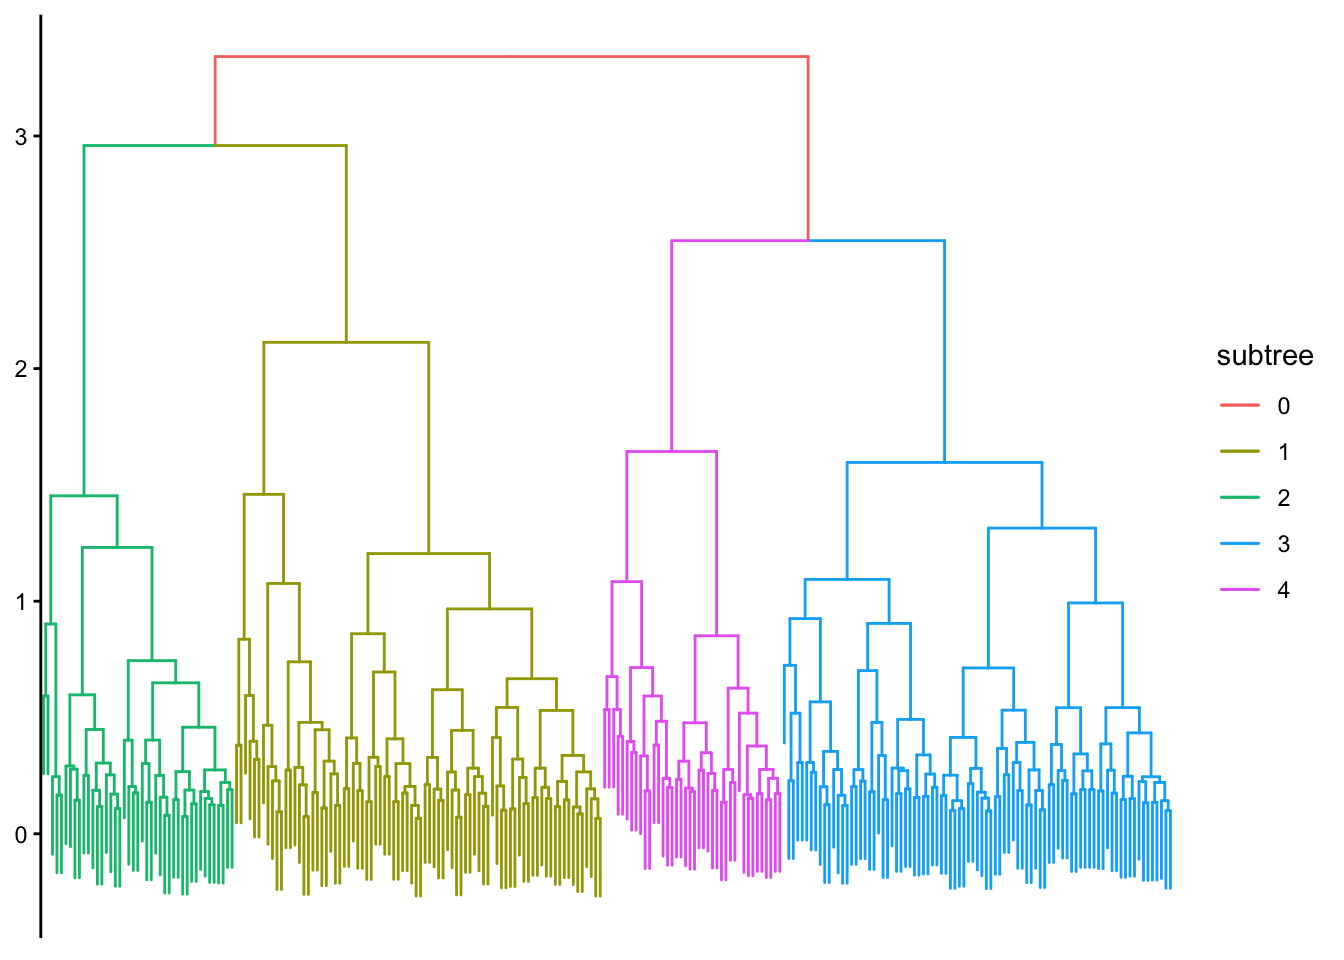
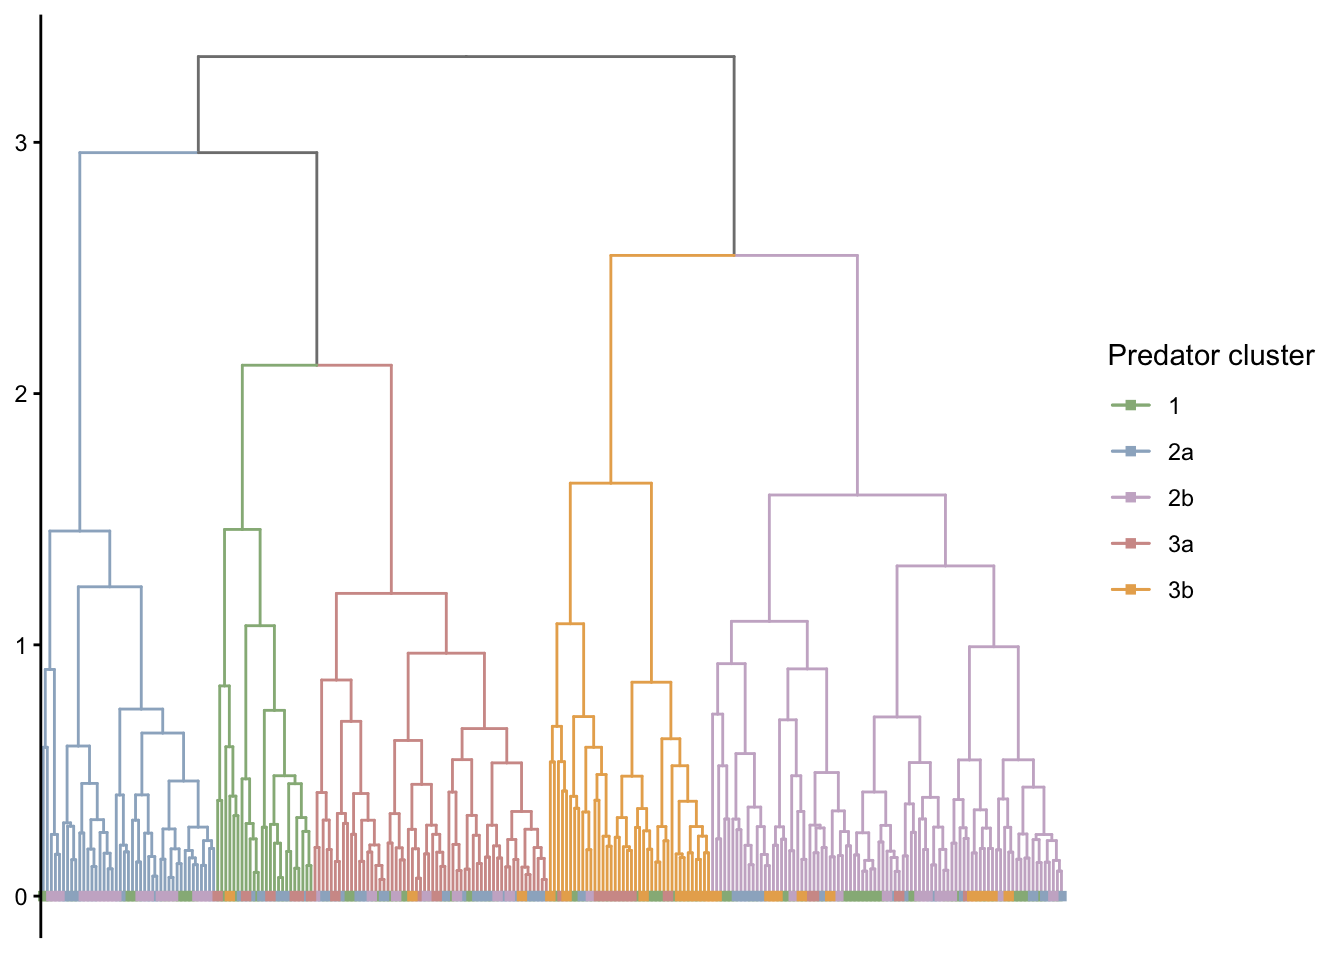
Cluster comparison

diff --git a/docs/04_pred_clus.html b/docs/04_pred_clus.html
@@ -130,7 +130,7 @@ code span.wa { color: #60a0b0; font-weight: bold; font-style: italic; } /* Warni
 <div class="cell">
 <details>
 <summary>Code</summary>
-<div class="sourceCode cell-code" id="cb1"><pre class="sourceCode r code-with-copy"><code class="sourceCode r"><span id="cb1-1"><a href="#cb1-1" aria-hidden="true" tabindex="-1"></a>total_stations <span class="ot">&lt;-</span> <span class="fu">n_distinct</span>(zoop_sf<span class="sc">$</span>amlr.station)</span>
+<div class="sourceCode cell-code" id="cb1"><pre class="sourceCode r code-with-copy"><code class="sourceCode r"><span id="cb1-1"><a href="#cb1-1" aria-hidden="true" tabindex="-1"></a>total_stations <span class="ot">&lt;-</span> <span class="fu">n_distinct</span>(zoop<span class="sc">$</span>amlr.station)</span>
 <span id="cb1-2"><a href="#cb1-2" aria-hidden="true" tabindex="-1"></a>pred_frac <span class="ot">&lt;-</span> predators_stations <span class="sc">%&gt;%</span></span>
 <span id="cb1-3"><a href="#cb1-3" aria-hidden="true" tabindex="-1"></a>  <span class="fu">group_by</span>(amlr.station, species) <span class="sc">%&gt;%</span> </span>
 <span id="cb1-4"><a href="#cb1-4" aria-hidden="true" tabindex="-1"></a>  <span class="fu">summarize</span>(<span class="at">count =</span> <span class="fu">sum</span>(count), <span class="at">.groups =</span> <span class="st">"drop"</span>) <span class="sc">%&gt;%</span></span>
@@ -297,25 +297,89 @@ code span.wa { color: #60a0b0; font-weight: bold; font-style: italic; } /* Warni
 
 </div>
 </div>
-<p>Hierarchical clustering of stations by predator community.</p>
+<p>Hierarchical clustering of stations by predator community. Chose 5 clusters a priori to match Dietrich et al.&nbsp;(2021). Note: 394 stations were included in the zooplankton clustering, but only 252 stations were used for predator clustering.</p>
 <div class="cell">
 <details>
 <summary>Code</summary>
-<div class="sourceCode cell-code" id="cb2"><pre class="sourceCode r code-with-copy"><code class="sourceCode r"><span id="cb2-1"><a href="#cb2-1" aria-hidden="true" tabindex="-1"></a>clus <span class="ot">&lt;-</span> <span class="fu">cutree</span>(sightings_clust, <span class="dv">4</span>)</span>
-<span id="cb2-2"><a href="#cb2-2" aria-hidden="true" tabindex="-1"></a>g <span class="ot">&lt;-</span> <span class="fu">split</span>(<span class="fu">names</span>(clus), clus)</span>
-<span id="cb2-3"><a href="#cb2-3" aria-hidden="true" tabindex="-1"></a>p <span class="ot">&lt;-</span> <span class="fu">ggtree</span>(sightings_clust)</span>
-<span id="cb2-4"><a href="#cb2-4" aria-hidden="true" tabindex="-1"></a>station_clades <span class="ot">&lt;-</span> <span class="fu">sapply</span>(g, <span class="cf">function</span>(n) <span class="fu">MRCA</span>(p, n))</span>
-<span id="cb2-5"><a href="#cb2-5" aria-hidden="true" tabindex="-1"></a>p <span class="ot">&lt;-</span> <span class="fu">groupClade</span>(p, station_clades, <span class="at">group_name =</span> <span class="st">"subtree"</span>) <span class="sc">+</span> </span>
-<span id="cb2-6"><a href="#cb2-6" aria-hidden="true" tabindex="-1"></a>  <span class="fu">aes</span>(<span class="at">color =</span> subtree)</span>
-<span id="cb2-7"><a href="#cb2-7" aria-hidden="true" tabindex="-1"></a></span>
-<span id="cb2-8"><a href="#cb2-8" aria-hidden="true" tabindex="-1"></a>p <span class="sc">+</span></span>
-<span id="cb2-9"><a href="#cb2-9" aria-hidden="true" tabindex="-1"></a>  <span class="fu">layout_dendrogram</span>() <span class="sc">+</span></span>
-<span id="cb2-10"><a href="#cb2-10" aria-hidden="true" tabindex="-1"></a>  <span class="fu">theme_dendrogram</span>()</span></code><button title="Copy to Clipboard" class="code-copy-button"><i class="bi"></i></button></pre></div>
+<div class="sourceCode cell-code" id="cb2"><pre class="sourceCode r code-with-copy"><code class="sourceCode r"><span id="cb2-1"><a href="#cb2-1" aria-hidden="true" tabindex="-1"></a><span class="co"># Cut predators into five clusters</span></span>
+<span id="cb2-2"><a href="#cb2-2" aria-hidden="true" tabindex="-1"></a>clust <span class="ot">&lt;-</span> <span class="fu">cutree</span>(sightings_clust, <span class="dv">5</span>)</span>
+<span id="cb2-3"><a href="#cb2-3" aria-hidden="true" tabindex="-1"></a>g <span class="ot">&lt;-</span> <span class="fu">split</span>(<span class="fu">names</span>(clust), clust)</span>
+<span id="cb2-4"><a href="#cb2-4" aria-hidden="true" tabindex="-1"></a>p <span class="ot">&lt;-</span> <span class="fu">ggtree</span>(sightings_clust, <span class="at">hang =</span> <span class="sc">-</span><span class="dv">1</span>)</span>
+<span id="cb2-5"><a href="#cb2-5" aria-hidden="true" tabindex="-1"></a>pred_clust_mrca <span class="ot">&lt;-</span> <span class="fu">sapply</span>(g, <span class="cf">function</span>(n) <span class="fu">MRCA</span>(p, n))</span>
+<span id="cb2-6"><a href="#cb2-6" aria-hidden="true" tabindex="-1"></a></span>
+<span id="cb2-7"><a href="#cb2-7" aria-hidden="true" tabindex="-1"></a>p <span class="sc">%&gt;%</span> </span>
+<span id="cb2-8"><a href="#cb2-8" aria-hidden="true" tabindex="-1"></a>  <span class="fu">groupClade</span>(pred_clust_mrca, <span class="at">group_name =</span> <span class="st">"Predator cluster"</span>) <span class="sc">+</span> </span>
+<span id="cb2-9"><a href="#cb2-9" aria-hidden="true" tabindex="-1"></a>  <span class="fu">aes</span>(<span class="at">color =</span> <span class="st">`</span><span class="at">Predator cluster</span><span class="st">`</span>) <span class="sc">+</span></span>
+<span id="cb2-10"><a href="#cb2-10" aria-hidden="true" tabindex="-1"></a>  <span class="fu">layout_dendrogram</span>() <span class="sc">+</span></span>
+<span id="cb2-11"><a href="#cb2-11" aria-hidden="true" tabindex="-1"></a>  <span class="fu">theme_dendrogram</span>()</span></code><button title="Copy to Clipboard" class="code-copy-button"><i class="bi"></i></button></pre></div>
 </details>
 <div class="cell-output-display">
-<p><img src="04_pred_clus_files/figure-html/predator_clusters-1.png" class="img-fluid" width="672"></p>
+<p><img src="04_pred_clus_files/figure-html/predator_dendro-1.png" class="img-fluid" width="672"></p>
 </div>
 </div>
+<p>How do the predator clusters compare to the zooplankton clusters?</p>
+<div class="cell">
+<details>
+<summary>Code</summary>
+<div class="sourceCode cell-code" id="cb3"><pre class="sourceCode r code-with-copy"><code class="sourceCode r"><span id="cb3-1"><a href="#cb3-1" aria-hidden="true" tabindex="-1"></a><span class="co"># Join with zooplankton clusters</span></span>
+<span id="cb3-2"><a href="#cb3-2" aria-hidden="true" tabindex="-1"></a>both_clust <span class="ot">&lt;-</span> zoop <span class="sc">%&gt;%</span> </span>
+<span id="cb3-3"><a href="#cb3-3" aria-hidden="true" tabindex="-1"></a>  <span class="fu">transmute</span>(amlr.station, </span>
+<span id="cb3-4"><a href="#cb3-4" aria-hidden="true" tabindex="-1"></a>            <span class="at">zoop_clust =</span> <span class="fu">factor</span>(<span class="st">`</span><span class="at">Winter Cluster factor</span><span class="st">`</span>)) <span class="sc">%&gt;%</span> </span>
+<span id="cb3-5"><a href="#cb3-5" aria-hidden="true" tabindex="-1"></a>  <span class="fu">right_join</span>(<span class="fu">tibble</span>(<span class="at">amlr.station =</span> <span class="fu">names</span>(clust),</span>
+<span id="cb3-6"><a href="#cb3-6" aria-hidden="true" tabindex="-1"></a>                    <span class="at">pred_clust =</span> <span class="fu">factor</span>(clust)),</span>
+<span id="cb3-7"><a href="#cb3-7" aria-hidden="true" tabindex="-1"></a>             <span class="at">by =</span> <span class="st">"amlr.station"</span>)</span>
+<span id="cb3-8"><a href="#cb3-8" aria-hidden="true" tabindex="-1"></a></span>
+<span id="cb3-9"><a href="#cb3-9" aria-hidden="true" tabindex="-1"></a><span class="co"># Mosaic plot</span></span>
+<span id="cb3-10"><a href="#cb3-10" aria-hidden="true" tabindex="-1"></a>cluster_pal <span class="ot">=</span> <span class="fu">c</span>(<span class="st">`</span><span class="at">1</span><span class="st">`</span> <span class="ot">=</span> <span class="st">"#96B687"</span>,</span>
+<span id="cb3-11"><a href="#cb3-11" aria-hidden="true" tabindex="-1"></a>                <span class="st">`</span><span class="at">2a</span><span class="st">`</span> <span class="ot">=</span> <span class="st">"#9CB2C8"</span>,</span>
+<span id="cb3-12"><a href="#cb3-12" aria-hidden="true" tabindex="-1"></a>                <span class="st">`</span><span class="at">2b</span><span class="st">`</span> <span class="ot">=</span> <span class="st">"#CAB3CC"</span>,</span>
+<span id="cb3-13"><a href="#cb3-13" aria-hidden="true" tabindex="-1"></a>                <span class="st">`</span><span class="at">3a</span><span class="st">`</span> <span class="ot">=</span> <span class="st">"#D29A97"</span>,</span>
+<span id="cb3-14"><a href="#cb3-14" aria-hidden="true" tabindex="-1"></a>                <span class="st">`</span><span class="at">3b</span><span class="st">`</span> <span class="ot">=</span> <span class="st">"#E8AD5C"</span>)</span>
+<span id="cb3-15"><a href="#cb3-15" aria-hidden="true" tabindex="-1"></a><span class="fu">ggplot</span>(both_clust) <span class="sc">+</span></span>
+<span id="cb3-16"><a href="#cb3-16" aria-hidden="true" tabindex="-1"></a>  <span class="fu">geom_mosaic</span>(<span class="fu">aes</span>(<span class="at">x =</span> <span class="fu">product</span>(zoop_clust, pred_clust), </span>
+<span id="cb3-17"><a href="#cb3-17" aria-hidden="true" tabindex="-1"></a>                  <span class="at">fill =</span> zoop_clust)) <span class="sc">+</span></span>
+<span id="cb3-18"><a href="#cb3-18" aria-hidden="true" tabindex="-1"></a>  <span class="fu">geom_mosaic_text</span>(<span class="fu">aes</span>(<span class="at">x =</span> <span class="fu">product</span>(zoop_clust, pred_clust),</span>
+<span id="cb3-19"><a href="#cb3-19" aria-hidden="true" tabindex="-1"></a>                       <span class="at">label =</span> <span class="fu">after_stat</span>(.wt)),</span>
+<span id="cb3-20"><a href="#cb3-20" aria-hidden="true" tabindex="-1"></a>                   <span class="at">as.label =</span> <span class="cn">TRUE</span>) <span class="sc">+</span></span>
+<span id="cb3-21"><a href="#cb3-21" aria-hidden="true" tabindex="-1"></a>  <span class="fu">scale_fill_manual</span>(<span class="at">values =</span> cluster_pal) <span class="sc">+</span></span>
+<span id="cb3-22"><a href="#cb3-22" aria-hidden="true" tabindex="-1"></a>  <span class="fu">labs</span>(<span class="at">x =</span> <span class="st">"Predator cluster"</span>,</span>
+<span id="cb3-23"><a href="#cb3-23" aria-hidden="true" tabindex="-1"></a>       <span class="at">y =</span> <span class="st">"Zooplankton cluster"</span>,</span>
+<span id="cb3-24"><a href="#cb3-24" aria-hidden="true" tabindex="-1"></a>       <span class="at">fill =</span> <span class="st">"Zooplankton cluster"</span>) <span class="sc">+</span></span>
+<span id="cb3-25"><a href="#cb3-25" aria-hidden="true" tabindex="-1"></a>  <span class="fu">theme_classic</span>()</span></code><button title="Copy to Clipboard" class="code-copy-button"><i class="bi"></i></button></pre></div>
+</details>
+<div class="cell-output-display">
+<p><img src="04_pred_clus_files/figure-html/predator_mosaic-1.png" class="img-fluid" width="672"></p>
+</div>
+</div>
+<p>The above mosaic plot shows the distribution of stations by predator and zooplankton stations. For example, the bottom left rectangle indicates 9 stations were assigned to zooplankton cluster 1 and predator cluster 1. Rectangles color-coded by zooplankton cluster using the color palette from Dietrich et al.&nbsp;2021 Fig 3a.</p>
+<p>Upon visual inspection of the mosaic plot, I don’t perceive any clear correlations between the zooplankton and predator cluster assignments. I tested the strength of the relationship between the two cluster assignments through simulation of the Rand index (RI). RI is a measure of similarity between two clusterings ranging from 0 (no agreement) to 1 (total agreement). The histogram below shows the distribution of RI values when the cluster assignments were randomly shuffled 100,000 times. The vertical red line is the observed RI value.</p>
+<div class="cell">
+<details>
+<summary>Code</summary>
+<div class="sourceCode cell-code" id="cb4"><pre class="sourceCode r code-with-copy"><code class="sourceCode r"><span id="cb4-1"><a href="#cb4-1" aria-hidden="true" tabindex="-1"></a><span class="fu">set.seed</span>(<span class="dv">1311</span>)</span>
+<span id="cb4-2"><a href="#cb4-2" aria-hidden="true" tabindex="-1"></a></span>
+<span id="cb4-3"><a href="#cb4-3" aria-hidden="true" tabindex="-1"></a>expected_ri <span class="ot">&lt;-</span> <span class="fu">replicate</span>(</span>
+<span id="cb4-4"><a href="#cb4-4" aria-hidden="true" tabindex="-1"></a>  <span class="dv">100000</span>,</span>
+<span id="cb4-5"><a href="#cb4-5" aria-hidden="true" tabindex="-1"></a>  aricode<span class="sc">::</span><span class="fu">RI</span>(</span>
+<span id="cb4-6"><a href="#cb4-6" aria-hidden="true" tabindex="-1"></a>    <span class="fu">sample</span>(both_clust<span class="sc">$</span>zoop_clust, <span class="fu">nrow</span>(both_clust)),</span>
+<span id="cb4-7"><a href="#cb4-7" aria-hidden="true" tabindex="-1"></a>    <span class="fu">sample</span>(both_clust<span class="sc">$</span>pred_clust, <span class="fu">nrow</span>(both_clust))</span>
+<span id="cb4-8"><a href="#cb4-8" aria-hidden="true" tabindex="-1"></a>  )</span>
+<span id="cb4-9"><a href="#cb4-9" aria-hidden="true" tabindex="-1"></a>)</span>
+<span id="cb4-10"><a href="#cb4-10" aria-hidden="true" tabindex="-1"></a></span>
+<span id="cb4-11"><a href="#cb4-11" aria-hidden="true" tabindex="-1"></a>observed_ri <span class="ot">&lt;-</span> aricode<span class="sc">::</span><span class="fu">RI</span>(both_clust<span class="sc">$</span>zoop_clust, both_clust<span class="sc">$</span>pred_clust)</span>
+<span id="cb4-12"><a href="#cb4-12" aria-hidden="true" tabindex="-1"></a></span>
+<span id="cb4-13"><a href="#cb4-13" aria-hidden="true" tabindex="-1"></a>ri_pval <span class="ot">&lt;-</span> <span class="fu">sum</span>(expected_ri <span class="sc">&gt;</span> observed_ri) <span class="sc">/</span> <span class="dv">100000</span></span>
+<span id="cb4-14"><a href="#cb4-14" aria-hidden="true" tabindex="-1"></a></span>
+<span id="cb4-15"><a href="#cb4-15" aria-hidden="true" tabindex="-1"></a><span class="fu">ggplot</span>(<span class="fu">tibble</span>(<span class="st">`</span><span class="at">Rand index</span><span class="st">`</span> <span class="ot">=</span> expected_ri), <span class="fu">aes</span>(<span class="st">`</span><span class="at">Rand index</span><span class="st">`</span>)) <span class="sc">+</span></span>
+<span id="cb4-16"><a href="#cb4-16" aria-hidden="true" tabindex="-1"></a>  <span class="fu">geom_histogram</span>(<span class="at">binwidth =</span> <span class="fl">0.001</span>) <span class="sc">+</span></span>
+<span id="cb4-17"><a href="#cb4-17" aria-hidden="true" tabindex="-1"></a>  <span class="fu">geom_vline</span>(<span class="at">xintercept =</span> observed_ri, <span class="at">color =</span> <span class="st">"red"</span>) <span class="sc">+</span></span>
+<span id="cb4-18"><a href="#cb4-18" aria-hidden="true" tabindex="-1"></a>  <span class="fu">theme_classic</span>()</span></code><button title="Copy to Clipboard" class="code-copy-button"><i class="bi"></i></button></pre></div>
+</details>
+<div class="cell-output-display">
+<p><img src="04_pred_clus_files/figure-html/randindex-1.png" class="img-fluid" width="672"></p>
+</div>
+</div>
+<p>Based on this simulation, the correlation between the zooplankton and predator assignments <em>is</em> significant (p = 0.00023). But I haven’t figured out how to assess effect size yet, which I imagine is small.</p>
 
 </main>
 <!-- /main column -->
